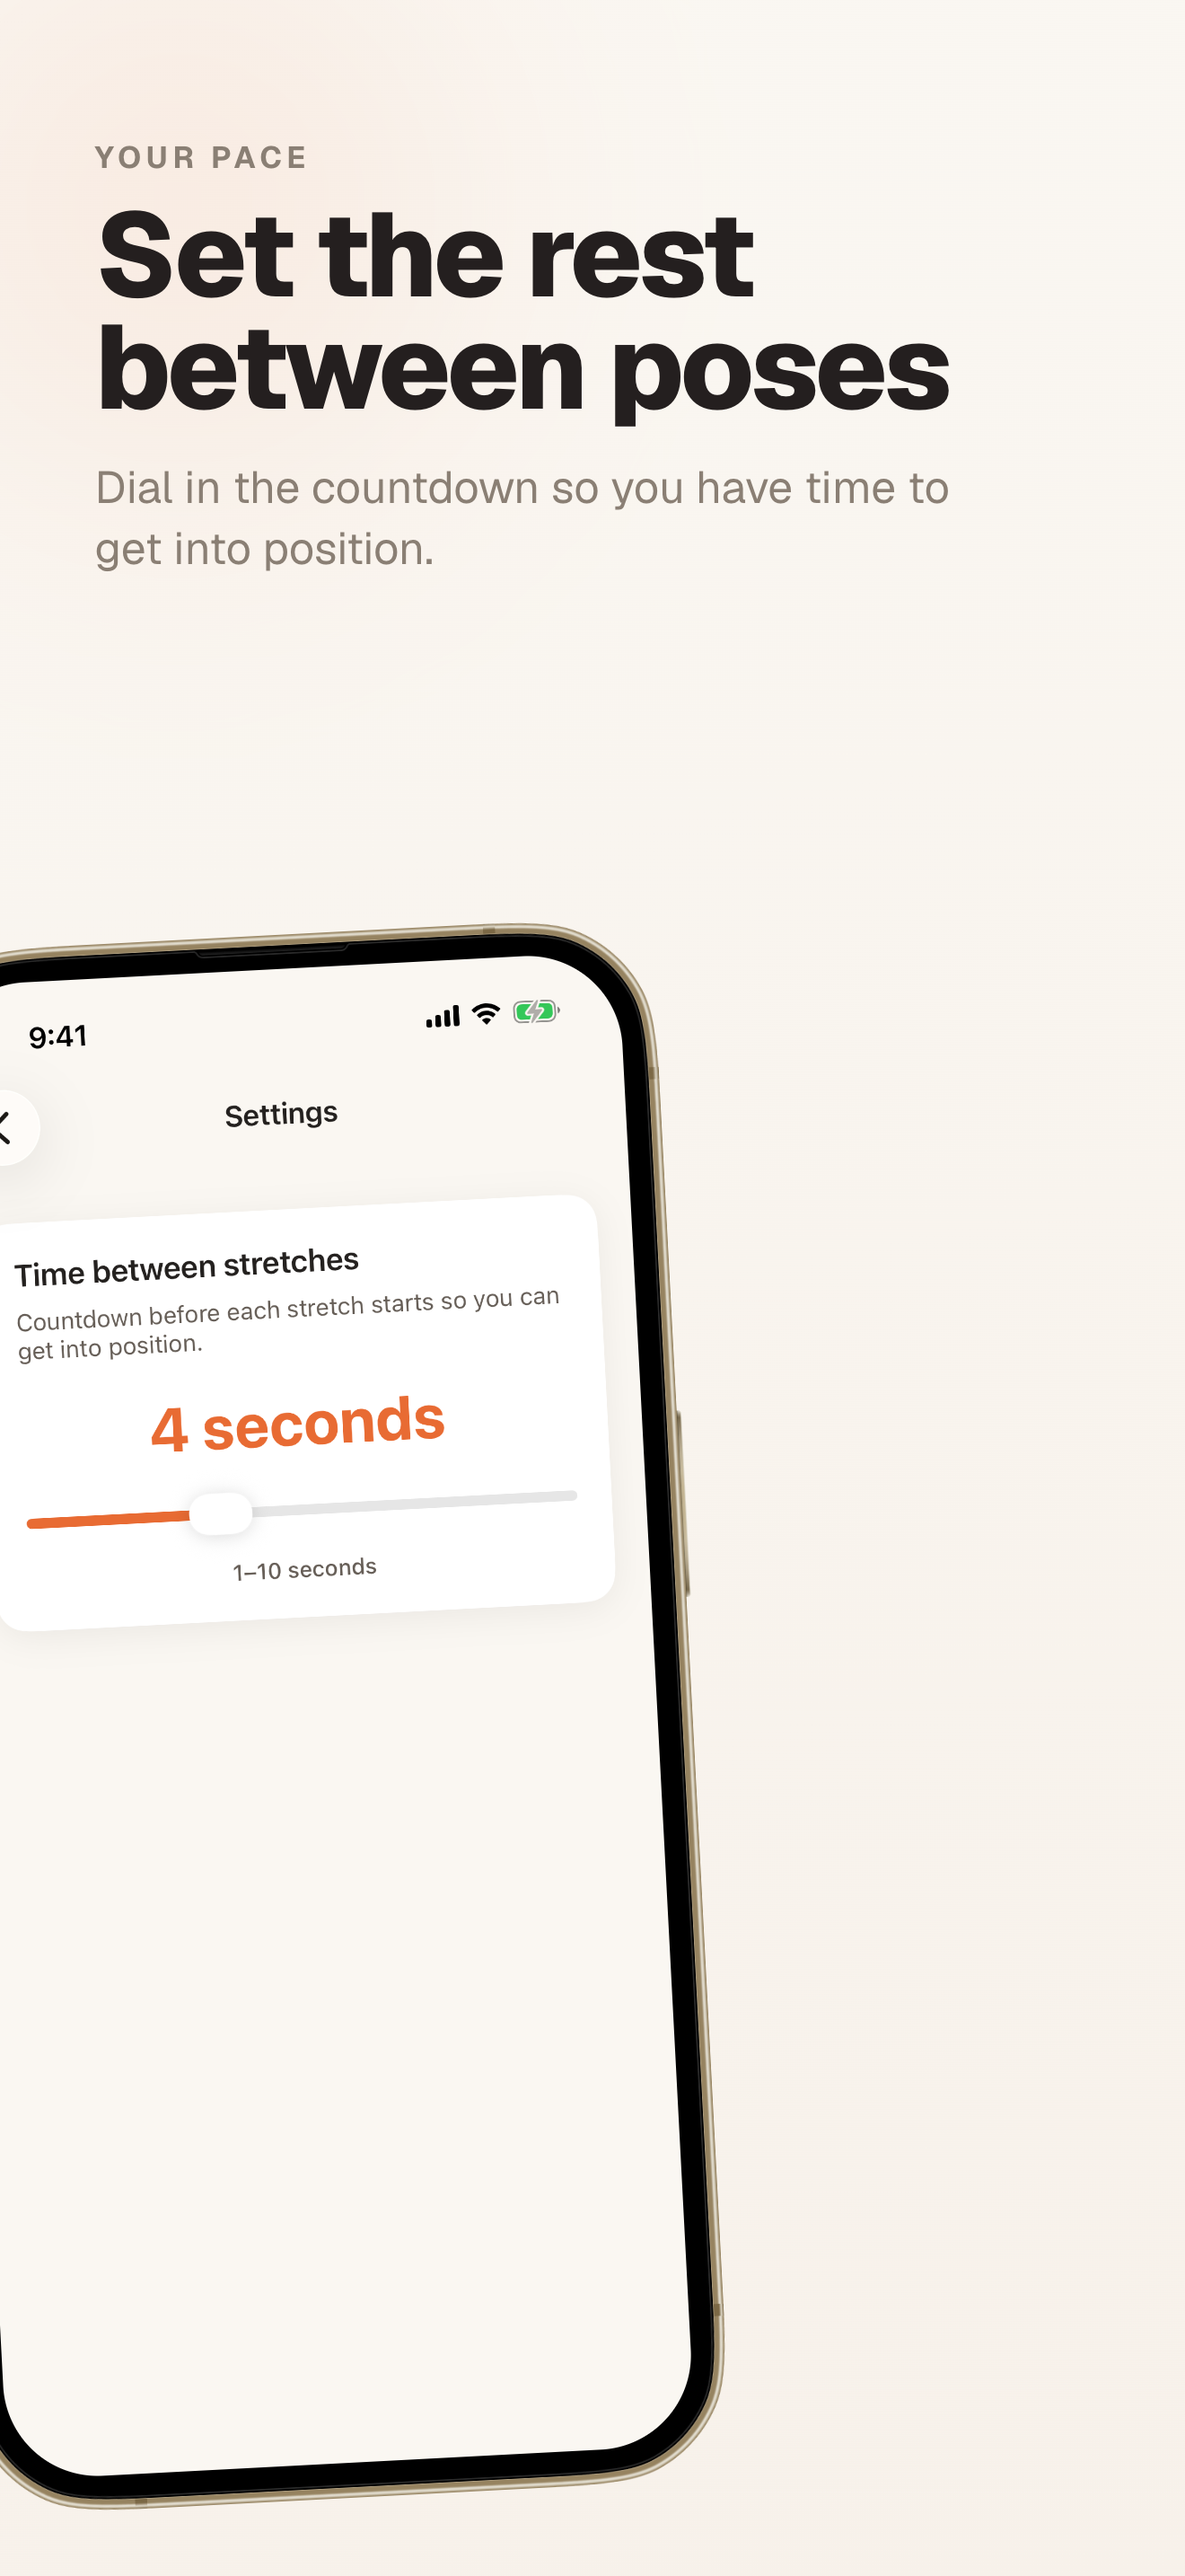
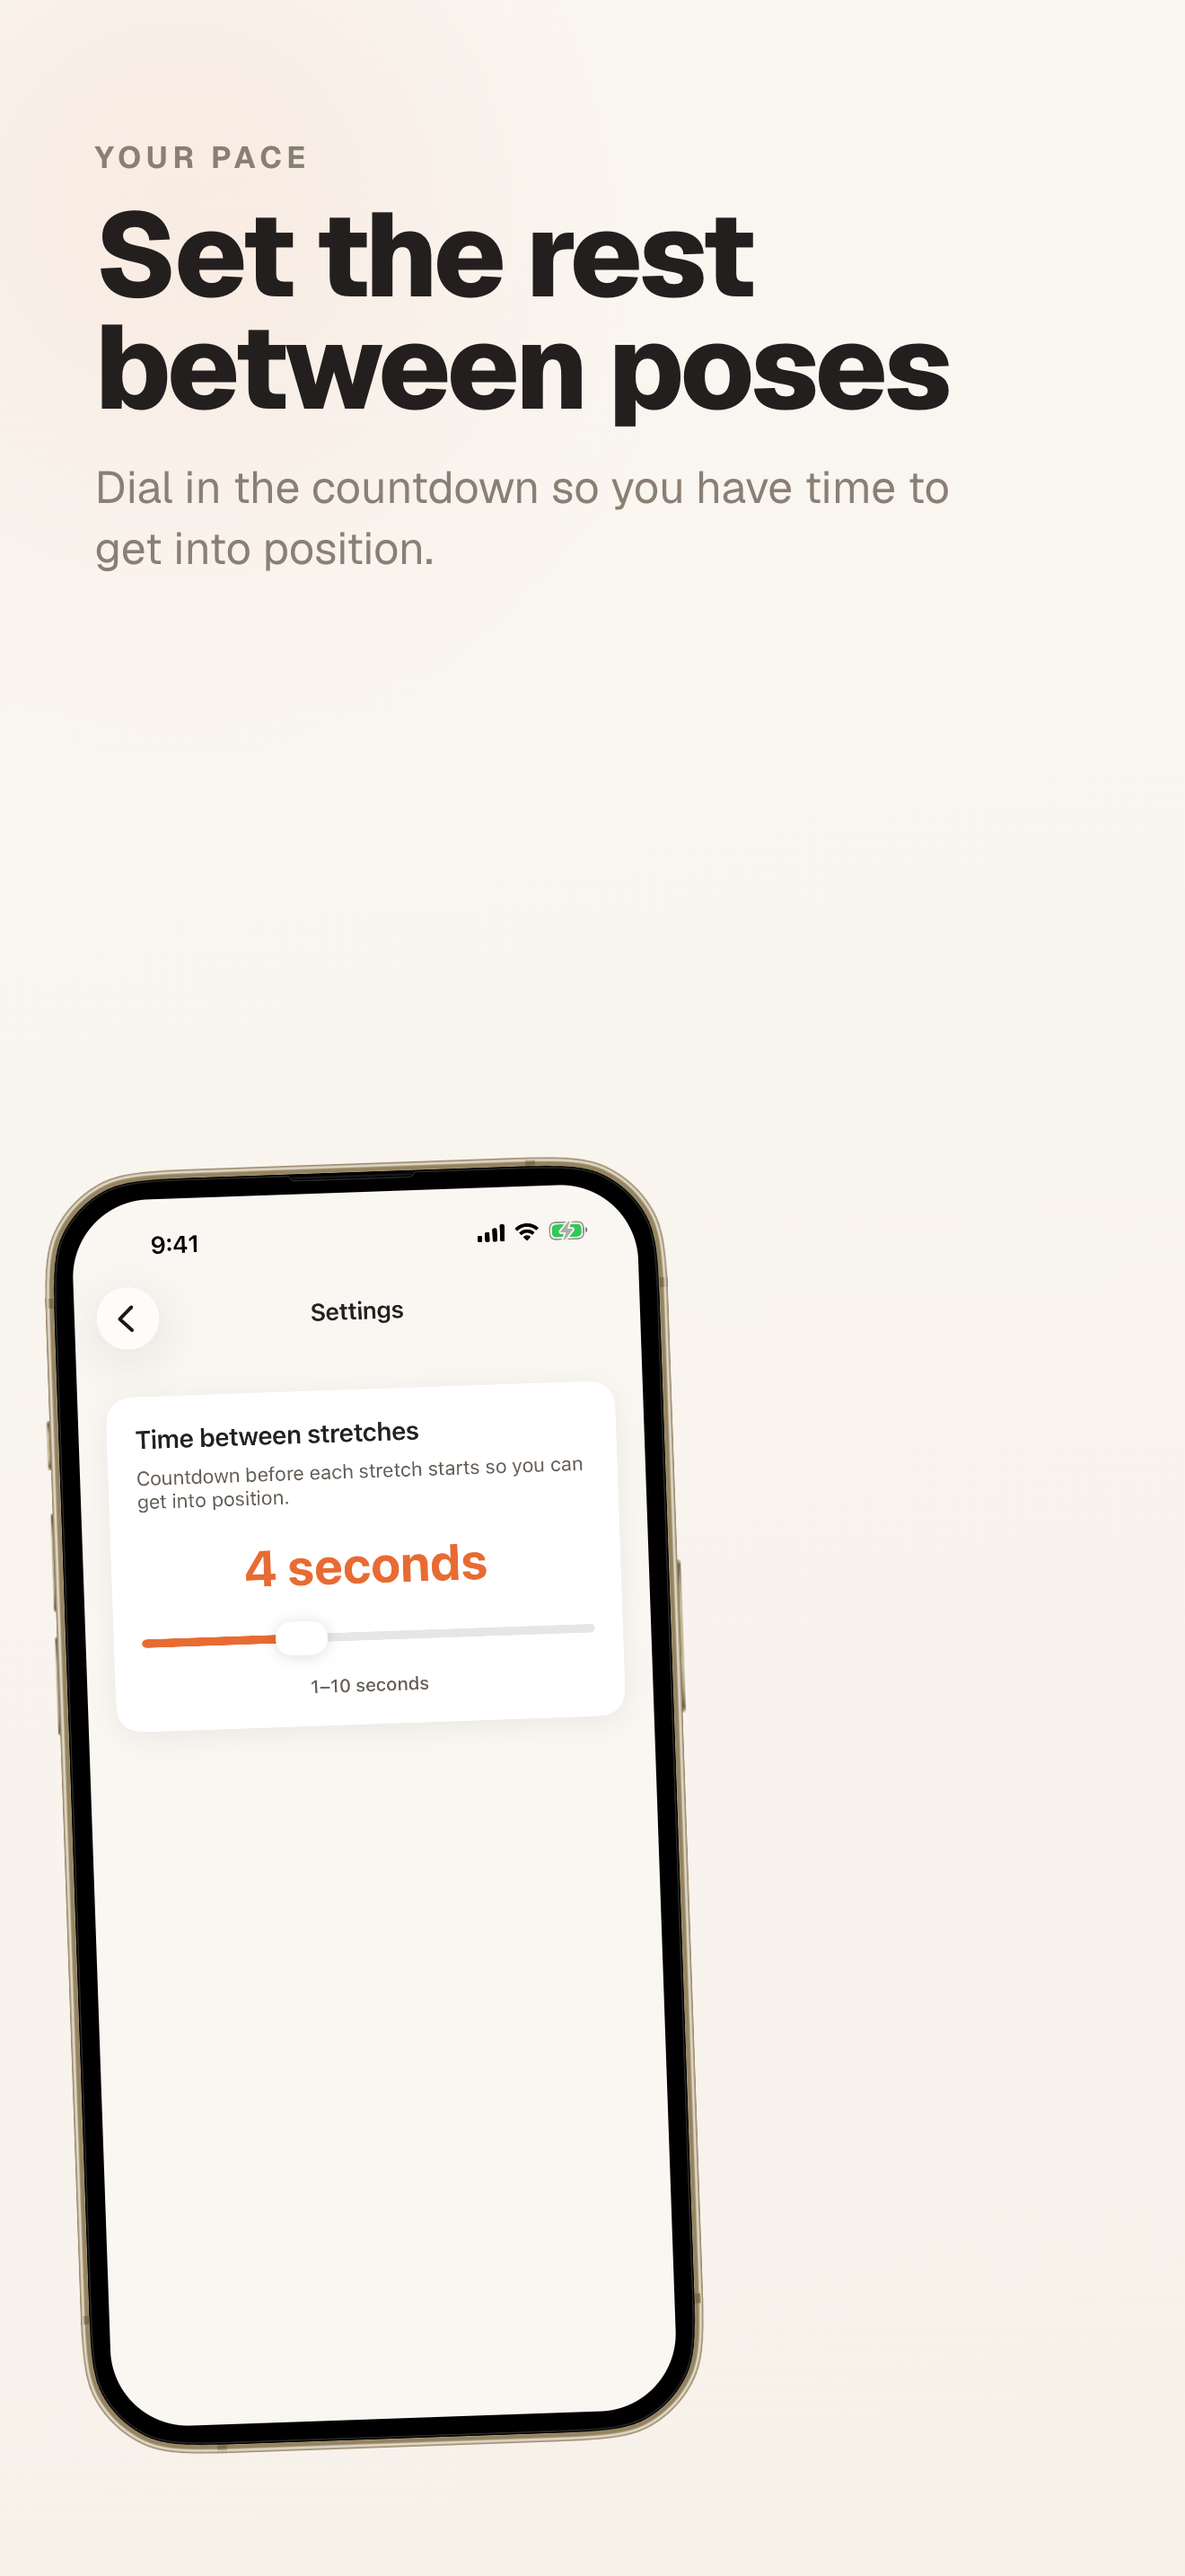
Fix screenshot clipping; keep universal creatives fully in frame

Changed region(s): [[0.0, 0.3414, 0.6212, 0.993], [0.1242, 0.6206, 0.2174, 0.6517]]

diff --git a/marketing/app-store-screenshots/src/app/page.tsx b/marketing/app-store-screenshots/src/app/page.tsx
@@ -226,9 +226,9 @@ const slides: SlideConfig[] = [
           style={{
             position: "absolute",
             left: "50%",
-            bottom: DESIGN_H * 0.02,
+            bottom: DESIGN_H * 0.04,
             transform: "translateX(-50%)",
-            width: PHONE_W,
+            width: PHONE_W * 0.88,
             zIndex: 3,
           }}
         >
@@ -257,11 +257,11 @@ const slides: SlideConfig[] = [
         <div
           style={{
             position: "absolute",
-            right: -DESIGN_W * 0.06,
-            bottom: DESIGN_H * 0.03,
-            width: PHONE_W * 0.95,
+            right: DESIGN_W * 0.05,
+            bottom: DESIGN_H * 0.05,
+            width: PHONE_W * 0.78,
             zIndex: 3,
-            transform: "rotate(3deg)",
+            transform: "rotate(2deg)",
           }}
         >
           <Phone mockupSrc={img("/mockup.png")} src={img("/screenshots/stretch.png")} alt="Stretch" />
@@ -291,9 +291,9 @@ const slides: SlideConfig[] = [
           style={{
             position: "absolute",
             left: "50%",
-            bottom: DESIGN_H * 0.02,
+            bottom: DESIGN_H * 0.04,
             transform: "translateX(-50%)",
-            width: PHONE_W,
+            width: PHONE_W * 0.88,
             zIndex: 3,
           }}
         >
@@ -322,11 +322,11 @@ const slides: SlideConfig[] = [
         <div
           style={{
             position: "absolute",
-            left: -DESIGN_W * 0.06,
-            bottom: DESIGN_H * 0.03,
-            width: PHONE_W * 0.95,
+            left: DESIGN_W * 0.05,
+            bottom: DESIGN_H * 0.05,
+            width: PHONE_W * 0.78,
             zIndex: 3,
-            transform: "rotate(-3deg)",
+            transform: "rotate(-2deg)",
           }}
         >
           <Phone mockupSrc={img("/mockup.png")} src={img("/screenshots/settings.png")} alt="Settings" />
@@ -344,33 +344,43 @@ const slides: SlideConfig[] = [
     render: (img) => {
       const CW = CREATIVE_W;
       const CH = CREATIVE_H;
-      const PHONE_CW = 298;
+      // Keep phone fully inside frame (rotation + shadow need margin)
+      const PHONE_CW = 250;
+      const phoneH = PHONE_CW * (MK_H / MK_W);
       return (
         <Slide bg={`linear-gradient(130deg, ${LS.deep} 0%, ${LS.deepMid} 45%, #6B3A28 100%)`} w={CW} h={CH}>
           <Blob x={CW * 0.88} y={CH * 0.25} size={560} color={LS.coral} opacity={0.24} />
           <Blob x={CW * 0.65} y={CH * 0.85} size={320} color="#F0A070" opacity={0.14} />
 
-          <div style={{ position: "absolute", left: CW * 0.05, top: CH * 0.1, width: CW * 0.52, zIndex: 2 }}>
-            <div style={{ display: "flex", alignItems: "center", gap: CW * 0.018, marginBottom: CH * 0.07 }}>
+          <div
+            style={{
+              position: "absolute",
+              left: CW * 0.055,
+              top: CH * 0.12,
+              width: CW * 0.48,
+              zIndex: 2,
+            }}
+          >
+            <div style={{ display: "flex", alignItems: "center", gap: CW * 0.016, marginBottom: CH * 0.05 }}>
               <img
                 src={img("/app-icon.png")}
                 alt="Let's Stretch"
-                style={{ width: CH * 0.14, height: CH * 0.14, borderRadius: CH * 0.028 }}
+                style={{ width: CH * 0.12, height: CH * 0.12, borderRadius: CH * 0.024 }}
               />
-              <span style={{ fontSize: CH * 0.07, fontWeight: 700, color: "rgba(255,255,255,0.9)" }}>
+              <span style={{ fontSize: CH * 0.062, fontWeight: 700, color: "rgba(255,255,255,0.9)" }}>
                 Let&apos;s Stretch
               </span>
             </div>
 
             <h2
               style={{
-                fontSize: CH * 0.148,
+                fontSize: CH * 0.125,
                 fontWeight: 800,
-                lineHeight: 0.92,
+                lineHeight: 0.95,
                 color: "#FFFFFF",
                 letterSpacing: "-0.03em",
                 margin: 0,
-                marginBottom: CH * 0.055,
+                marginBottom: CH * 0.04,
               }}
             >
               Pick a routine
@@ -380,28 +390,28 @@ const slides: SlideConfig[] = [
 
             <p
               style={{
-                fontSize: CH * 0.066,
-                lineHeight: 1.38,
+                fontSize: CH * 0.052,
+                lineHeight: 1.35,
                 color: "rgba(255,255,255,0.62)",
                 margin: 0,
-                maxWidth: "90%",
+                maxWidth: "95%",
               }}
             >
-              Guided stretches with clear diagrams
+              Guided stretches with clear
               <br />
-              and a simple timer.
+              diagrams and a simple timer.
             </p>
           </div>
 
           <div
             style={{
               position: "absolute",
-              right: CW * 0.025,
-              top: (CH - PHONE_CW * (MK_H / MK_W)) / 2 - CH * 0.02,
+              right: CW * 0.05,
+              top: (CH - phoneH) / 2,
               width: PHONE_CW,
               zIndex: 3,
-              transform: "rotate(2.5deg)",
-              filter: "drop-shadow(0 24px 48px rgba(0,0,0,0.55))",
+              transform: "rotate(2deg)",
+              filter: "drop-shadow(0 18px 36px rgba(0,0,0,0.5))",
             }}
           >
             <Phone mockupSrc={img("/mockup.png")} src={img("/screenshots/home.png")} alt="Home" />
